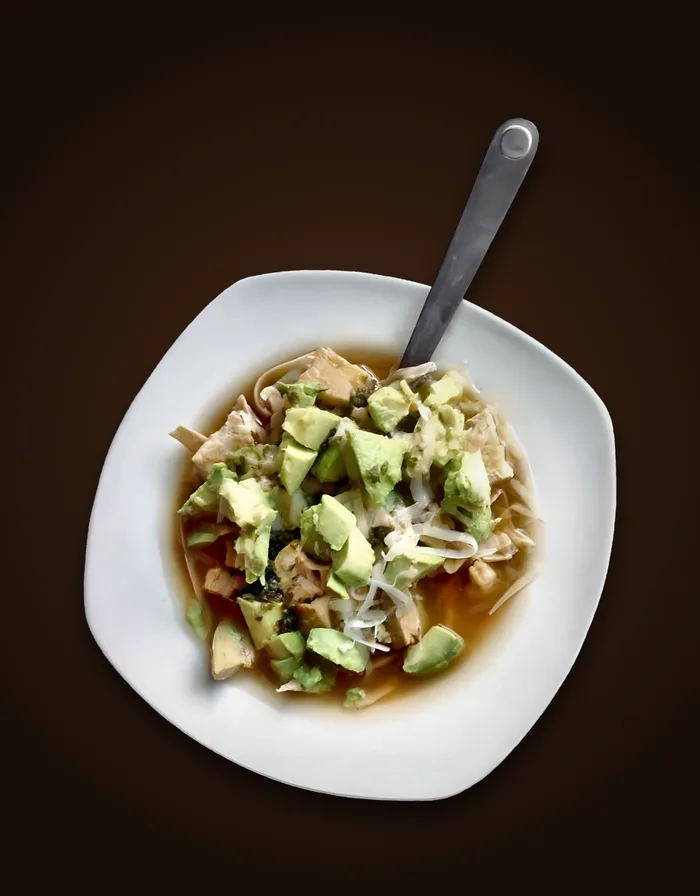
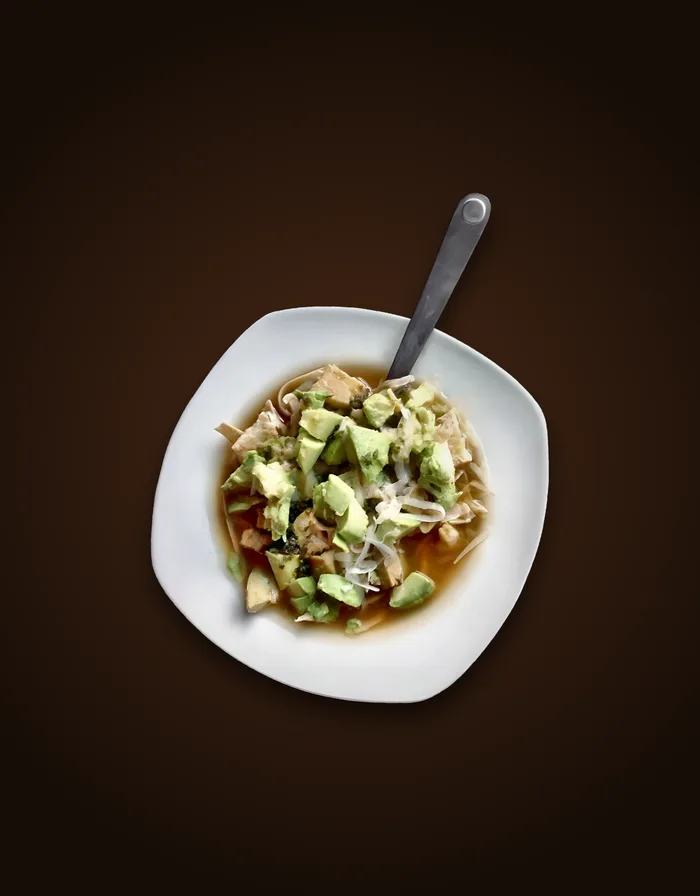
v2: tortilla hero framing

diff --git a/blogs/recipes/victor-s-tortilla-soup/index.html b/blogs/recipes/victor-s-tortilla-soup/index.html
@@ -12,14 +12,14 @@
 <meta content="article" property="og:type"/>
 <meta content="The recipe from Mama Mecho’s cookbook that started it all. One tablespoon and a cup of hot water make the broth." property="og:description"/>
 <meta content="en_US" property="og:locale"/>
-<meta content="https:https://edubikes.github.io/chololoy-v2/cdn/shop/articles/tortilla-soup-hero__w1200.webp?v=2" property="og:image"/>
-<meta content="https:https://edubikes.github.io/chololoy-v2/cdn/shop/articles/tortilla-soup-hero__w1200.webp?v=2" property="og:image:secure_url"/>
+<meta content="https:https://edubikes.github.io/chololoy-v2/cdn/shop/articles/tortilla-soup-hero__w1200.webp?v=3" property="og:image"/>
+<meta content="https:https://edubikes.github.io/chololoy-v2/cdn/shop/articles/tortilla-soup-hero__w1200.webp?v=3" property="og:image:secure_url"/>
 <meta content="1200" property="og:image:width"/>
 <meta content="1536" property="og:image:height"/>
 <meta content="summary_large_image" name="twitter:card"/>
 <meta content="Victor’s Tortilla Soup" name="twitter:title"/>
 <meta content="The recipe from Mama Mecho’s cookbook that started it all. One tablespoon and a cup of hot water make the broth." name="twitter:description"/>
-<meta content="https:https://edubikes.github.io/chololoy-v2/cdn/shop/articles/tortilla-soup-hero__w1200.webp?v=2" name="twitter:image"/><link as="font" crossorigin="anonymous" href="../../../assets/fraunces-roman.woff2" rel="preload" type="font/woff2"/>
+<meta content="https:https://edubikes.github.io/chololoy-v2/cdn/shop/articles/tortilla-soup-hero__w1200.webp?v=3" name="twitter:image"/><link as="font" crossorigin="anonymous" href="../../../assets/fraunces-roman.woff2" rel="preload" type="font/woff2"/>
 <link as="font" crossorigin="anonymous" href="../../../assets/work-sans.woff2" rel="preload" type="font/woff2"/>
 <style>
   @font-face{font-family:"Fraunces";font-style:normal;font-weight:300 600;font-display:swap;src:url(../../../assets/fraunces-roman.woff2) format("woff2")}
@@ -65,7 +65,7 @@
 </header>
 <div class="recipe__media">
 <figure>
-<div class="main"><img alt="Victor’s Tortilla Soup" fetchpriority="high" height="2304" sizes="(max-width: 900px) calc(100vw - 40px), 50vw" src="../../../cdn/shop/articles/tortilla-soup-hero__w1800.webp?v=2" srcset="../../../cdn/shop/articles/tortilla-soup-hero__w400.webp?v=2 400w, ../../../cdn/shop/articles/tortilla-soup-hero__w600.webp?v=2 600w, ../../../cdn/shop/articles/tortilla-soup-hero__w800.webp?v=2 800w, ../../../cdn/shop/articles/tortilla-soup-hero__w1000.webp?v=2 1000w, ../../../cdn/shop/articles/tortilla-soup-hero__w1200.webp?v=2 1200w, ../../../cdn/shop/articles/tortilla-soup-hero__w1800.webp?v=2 1800w" width="1800"/></div>
+<div class="main"><img alt="Victor’s Tortilla Soup" fetchpriority="high" height="2304" sizes="(max-width: 900px) calc(100vw - 40px), 50vw" src="../../../cdn/shop/articles/tortilla-soup-hero__w1800.webp?v=3" srcset="../../../cdn/shop/articles/tortilla-soup-hero__w400.webp?v=3 400w, ../../../cdn/shop/articles/tortilla-soup-hero__w600.webp?v=3 600w, ../../../cdn/shop/articles/tortilla-soup-hero__w800.webp?v=3 800w, ../../../cdn/shop/articles/tortilla-soup-hero__w1000.webp?v=3 1000w, ../../../cdn/shop/articles/tortilla-soup-hero__w1200.webp?v=3 1200w, ../../../cdn/shop/articles/tortilla-soup-hero__w1800.webp?v=3 1800w" width="1800"/></div>
 </figure><div class="recipe-video recipe-video--wide">
 <div class="recipe-video__frame" data-recipe-video="" data-src="../../../videos/chololoy-victor-tortilla-soup-640.mp4"><img alt="Victor’s Tortilla Soup" decoding="async" height="600" loading="lazy" sizes="(max-width: 900px) 100vw, 50vw" src="../../../videos/chololoy-victor-tortilla-soup-poster.webp" srcset="../../../videos/chololoy-victor-tortilla-soup-poster.webp 480w, ../../../videos/chololoy-victor-tortilla-soup-poster.webp 800w" width="800"/><a aria-label="Watch video: Victor’s Tortilla Soup" class="recipe-video__btn" data-recipe-video-play="" href="../../../videos/chololoy-victor-tortilla-soup-640.mp4" rel="noopener" target="_blank">
 <span aria-hidden="true"><svg height="18" viewbox="0 0 18 18" width="18"><path d="M4 2.5v13l12-6.5z" fill="currentColor"></path></svg></span>

diff --git a/blogs/recipes/index.html b/blogs/recipes/index.html
@@ -70,7 +70,7 @@
 </div><div class="recipe-groups" id="recipe-grid"><div class="recipe-group recipe-group--classic">
 <header class="recipe-group__head"><h2 class="recipe-group__title">Classic recipes</h2><p class="small">The family originals, led by Victor’s Tortilla Soup.</p></header>
 <div class="recipe-grid"><a class="card" data-cat="" data-cursor="View recipe" data-search="victor’s tortilla soup the recipe from mama mecho’s cookbook that started it all. one tablespoon and a cup of hot water make the broth." href="victor-s-tortilla-soup/">
-<div class="card__media"><img alt="Victor’s Tortilla Soup" fetchpriority="high" height="1792" sizes="(max-width: 900px) calc(100vw - 40px), 31vw" src="../../cdn/shop/articles/tortilla-soup-hero__w1400.webp?v=2" srcset="../../cdn/shop/articles/tortilla-soup-hero__w400.webp?v=2 400w, ../../cdn/shop/articles/tortilla-soup-hero__w560.webp?v=2 560w, ../../cdn/shop/articles/tortilla-soup-hero__w700.webp?v=2 700w, ../../cdn/shop/articles/tortilla-soup-hero__w900.webp?v=2 900w, ../../cdn/shop/articles/tortilla-soup-hero__w1200.webp?v=2 1200w, ../../cdn/shop/articles/tortilla-soup-hero__w1400.webp?v=2 1400w" width="1400"/></div>
+<div class="card__media"><img alt="Victor’s Tortilla Soup" fetchpriority="high" height="1792" sizes="(max-width: 900px) calc(100vw - 40px), 31vw" src="../../cdn/shop/articles/tortilla-soup-hero__w1400.webp?v=3" srcset="../../cdn/shop/articles/tortilla-soup-hero__w400.webp?v=3 400w, ../../cdn/shop/articles/tortilla-soup-hero__w560.webp?v=3 560w, ../../cdn/shop/articles/tortilla-soup-hero__w700.webp?v=3 700w, ../../cdn/shop/articles/tortilla-soup-hero__w900.webp?v=3 900w, ../../cdn/shop/articles/tortilla-soup-hero__w1200.webp?v=3 1200w, ../../cdn/shop/articles/tortilla-soup-hero__w1400.webp?v=3 1400w" width="1400"/></div>
 <div class="card__body">
 <div class="card__meta"></div>
 <h3 class="card__title">Victor’s Tortilla Soup</h3>
